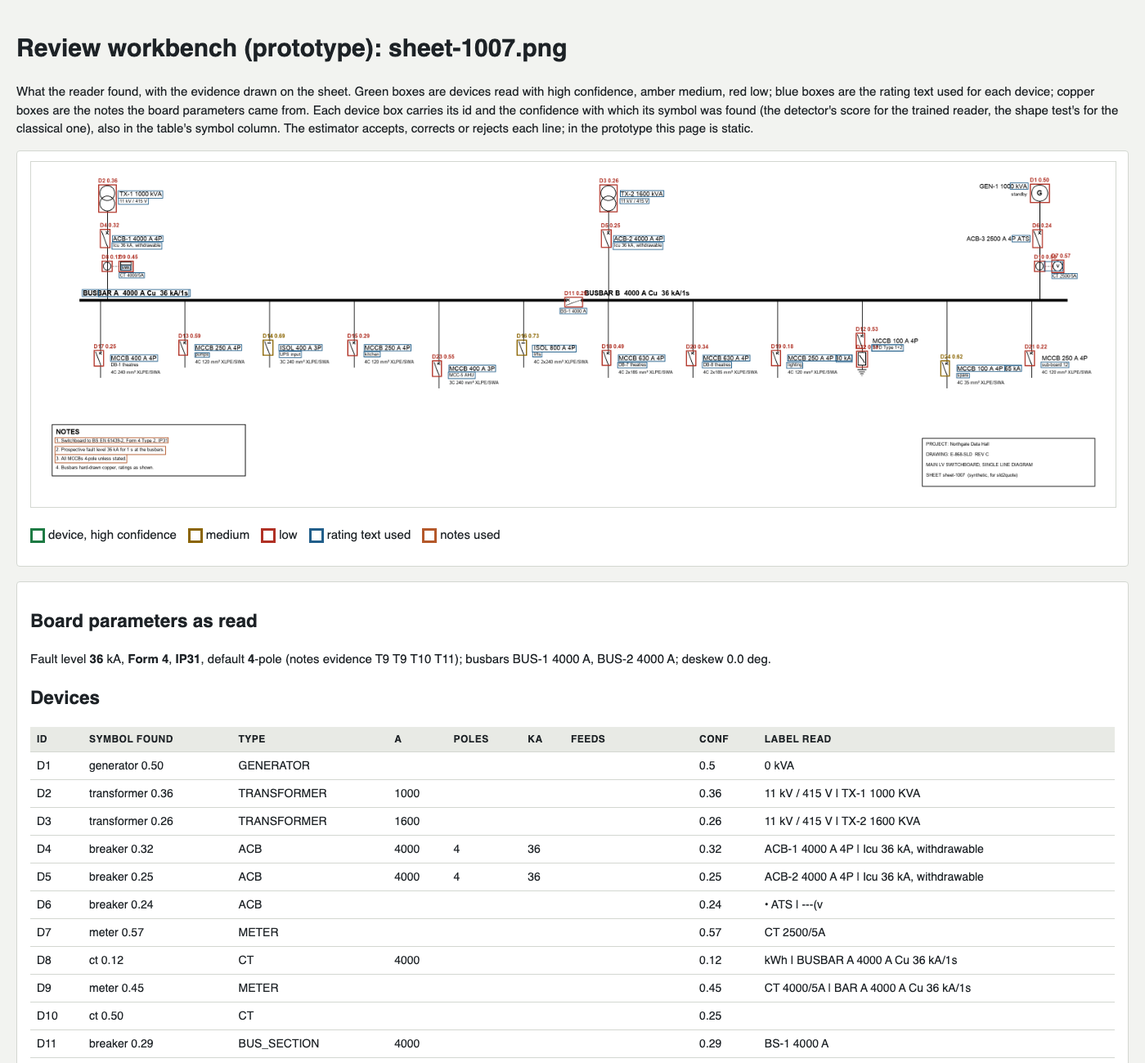
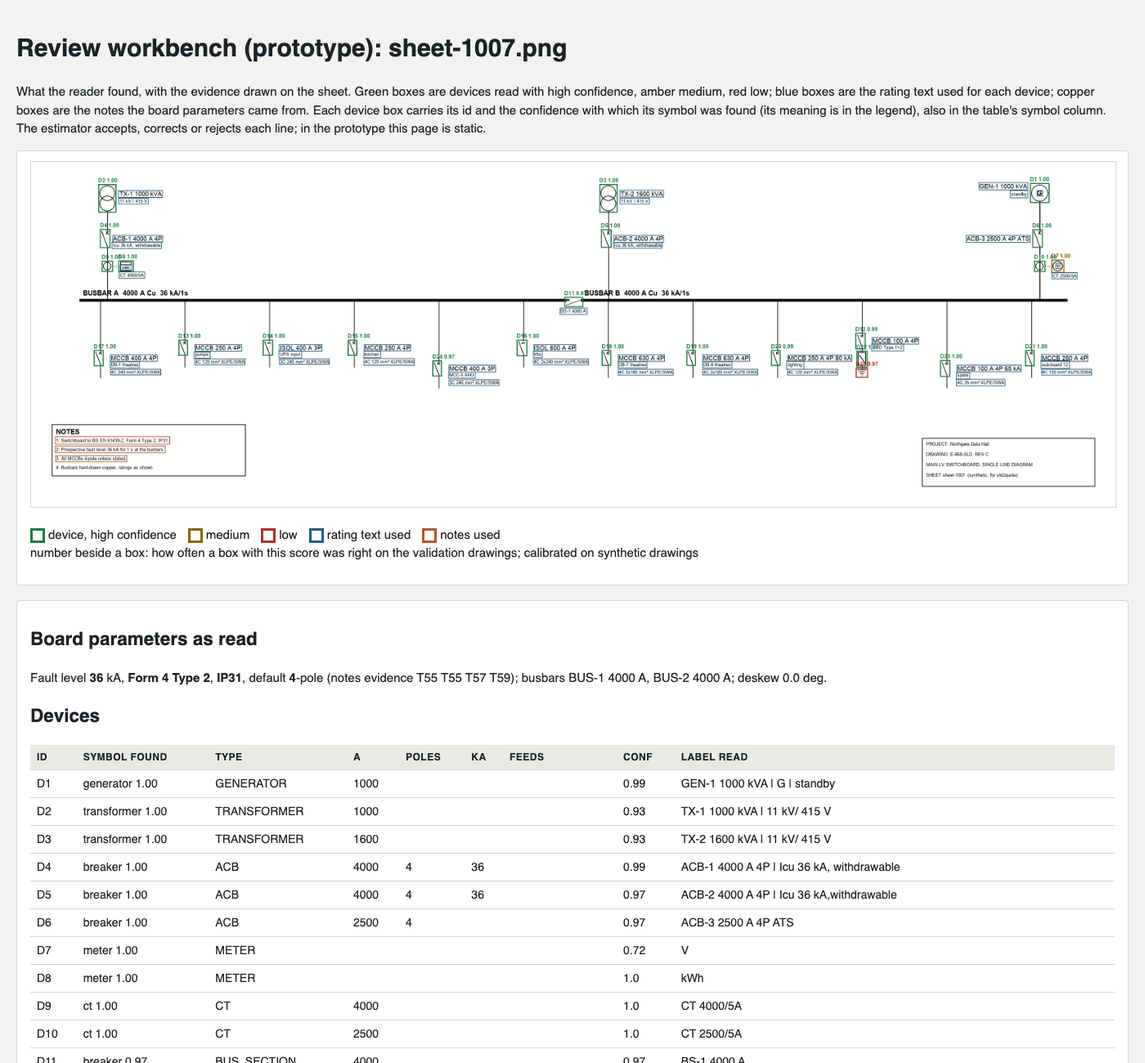
0.3.0: README numbers from the step-6 sections (ratings read right 1.000 test clean, 0.813 unseen clean; price error 0.014 and 0.125; link 1.000), the link-score definition and the honesty note carried over, 'Where it fails' rewritten, the site model named, review screenshot re-shot; CHANGELOG and C

diff --git a/sld2quote/reader.py b/sld2quote/reader.py
@@ -584,7 +584,7 @@ def read_sheet(image_path: str, texts: list[dict] | None = None, finder=classica
 
 
 READERS = ("classical", "trained")
-WEIGHTS = "weights/rtdetr_r18_full"  # the trained reader's detector unless --weights says otherwise
+WEIGHTS = "weights/rtdetr_r18_plain_ema_fix_pass4"  # the trained reader's detector unless --weights says otherwise
 
 
 def add_reader_args(ap):

diff --git a/sld2quote/__init__.py b/sld2quote/__init__.py
@@ -1,2 +1,2 @@
 """sld2quote: a pre-project prototype of the single-line-diagram to quotation pipeline (synthetic data only)."""
-__version__ = "0.2.0"
+__version__ = "0.3.0"

diff --git a/README.md b/README.md
@@ -1,6 +1,6 @@
 # sld2quote
 
-**v0.2.0, 19 October 2026.** A miniature of the system the University of Salford and R&B Switchgear Knowledge Transfer
+**v0.3.0, 19 October 2026.** A miniature of the system the University of Salford and R&B Switchgear Knowledge Transfer
 Partnership (KTP) sets out to build: it reads a low-voltage switchboard single-line diagram (SLD) and its specification,
 builds a bill of materials with the evidence behind every line, prices it, writes a draft quotation for an estimator to
 check, and measures every step against an answer key. It was built as evidence for a job application and is deliberately
@@ -12,9 +12,10 @@ works, with the scorecards; the road map of the real project). It runs on Google
 visit takes about 20 seconds to wake it; a run then takes 16 to 50 seconds depending on the drawing.
 
 ![The review page for a synthetic drawing the detector never saw](docs/review-sheet-1007.png)
-*The review page (`review.html`) for a synthetic drawing the detector never saw (`sheet-1007`, trained reader): each
-device box with the detector's score, the rating text used (blue) and the notes used (copper). The device table continues
-below it, then the bill of materials with the evidence for each line, and the issues raised for the estimator.*
+*The review page (`review.html`) for a synthetic drawing the detector never saw (`sheet-1007`, the site's reader): each
+device box with its calibrated confidence (how often a box with that score was right on the validation drawings), the
+rating text used (blue) and the notes used (copper). The device table continues below it, then the bill of materials with
+the evidence for each line, and the issues raised for the estimator.*
 
 ## What it does
 
@@ -24,14 +25,16 @@ below it, then the bill of materials with the evidence for each line, and the is
    sometimes conflicts with the drawing on purpose (`sld2quote/generate.py`).
 2. **Finds the symbols** with an RT-DETR detector fine-tuned on synthetic drawings, reading the page in overlapping tiles
    and merging them (`reader_v2.py`); the classical shape tests it replaced are kept as the baseline (`reader.py`).
-3. **Reads the text** with Apple Vision on a Mac or RapidOCR anywhere (`ocr.py`), finds the busbars and lines, attaches
-   each label to its device by rules, and reads the notes block: form, IP rating, fault level, poles (`reader.py`).
+3. **Reads the text** with RapidOCR, or Apple Vision on a Mac (`ocr.py`), finds the busbars and lines, and links the
+   labels: symbols on one vertical line form a way, the lines stacked beside or below it form its label block, and each
+   line goes to the device it names (a rating to the breaker, kW to the starter, kVAr to the capacitor, a CT ratio to the
+   CT); then reads the notes block: form, IP rating, fault level, poles (`reader.py`).
 4. **Reads the specification** clause by clause and lists where it conflicts with the drawing, citing the clause
    (`spec.py`).
 5. **Prices** with deterministic rules over the invented catalogue: every line names the symbol, text or clause it rests
    on, and anything doubtful is raised for the estimator, never silently fixed (`rules.py`, `catalogue.json`); then writes
    `quotation.md`, `bom.csv` and `review.html` (`quote.py`).
-6. **Measures** symbols, ratings, notes, conflicts, bill-of-materials lines and price against the answer key
+6. **Measures** symbols, label links, ratings, notes, conflicts, bill-of-materials lines and price against the answer key
    (`evaluate.py`), and the detector and the text readers on their own (`train_detector.py eval`, `evaluate_ocr.py`).
 
 ## Results
@@ -40,40 +43,59 @@ Every result figure in this README is copied by a script from the files the eval
 [`eval/RESULTS.md`](eval/RESULTS.md) (every set, reader, device type and sheet), [`eval/DETECTOR.md`](eval/DETECTOR.md)
 (every training run, per class) and [`eval/OCR.md`](eval/OCR.md) (every engine). Synthetic drawings only.
 
-### Whole drawings: classical against trained reader
+### Whole drawings: classical against trained reader, and the label link before and after step 6
 
-| Measure | Reader | Test, clean (30) | Test, scan-like (30) | Unseen style, clean (60) | Unseen style, scan-like (60) |
-|---|---|---|---|---|---|
-| Symbol precision | classical | 0.238 | 0.240 | 0.428 | 0.251 |
-|  | trained | 0.967 | 0.945 | 0.956 | 0.850 |
-| Symbol recall | classical | 0.059 | 0.079 | 0.133 | 0.100 |
-|  | trained | 0.954 | 0.871 | 0.963 | 0.801 |
-| Price error, mean | classical | 0.833 | 0.751 | 0.727 | 0.624 |
-|  | trained | 0.312 | 0.369 | 0.241 | 0.304 |
+| Measure | Reader | Test, clean (30) | Test, scan-like (30) | Unseen style, clean (60) | Unseen style, scan-like (60) | Baseline, clean (30) | Baseline, scan-like (30) |
+|---|---|---|---|---|---|---|---|
+| Symbol precision | classical, Vision | 0.238 | 0.240 | 0.428 | 0.251 | 0.350 | 0.213 |
+|  | trained, old link | 0.982 | 0.938 | 0.983 | 0.861 | 0.981 | 0.848 |
+|  | trained, step 6 | 0.990 | 0.995 | 0.989 | 1.000 | 0.992 | 0.997 |
+| Symbol recall | classical, Vision | 0.059 | 0.079 | 0.133 | 0.100 | 0.090 | 0.073 |
+|  | trained, old link | 0.973 | 0.924 | 0.979 | 0.839 | 0.972 | 0.825 |
+|  | trained, step 6 | 0.981 | 0.981 | 0.985 | 0.974 | 0.983 | 0.970 |
+| Link precision / recall | trained, old link | 0.738 / 0.612 | 0.741 / 0.637 | 0.743 / 0.653 | 0.719 / 0.664 | 0.750 / 0.625 | 0.720 / 0.646 |
+|  | trained, step 6 | 1.000 / 1.000 | 0.999 / 0.999 | 0.998 / 0.999 | 0.997 / 0.999 | 0.999 / 1.000 | 0.997 / 0.999 |
+| Ratings read right | trained, old link | 0.753 | 0.608 | 0.556 | 0.531 | 0.672 | 0.640 |
+|  | trained, step 6 | 1.000 | 0.995 | 0.813 | 0.840 | 0.897 | 0.911 |
+| Price error, mean | classical, Vision | 0.833 | 0.751 | 0.727 | 0.624 | 0.772 | 0.746 |
+|  | trained, old link | 0.125 | 0.333 | 0.249 | 0.316 | 0.189 | 0.368 |
+|  | trained, step 6 | 0.014 | 0.014 | 0.125 | 0.098 | 0.054 | 0.051 |
 
-Measured by `python3 -m sld2quote.evaluate` on 18 October 2026 on a Mac, with Apple Vision reading the text and the
-detector on 4 CPU threads. *Test* is 30 drawings in the styles the detector trained on, none of which it
-saw in training, each as a clean and a scan-like copy; *unseen style* is 60 drawings in styles held out of
-training (the font Courier New, or labels below the symbols). A symbol counts as found when its device type is right and
-its box overlaps the answer key's by IoU 0.3 or more. Price error is the gap between the quoted total and the total the
-same rules give on the answer key, as a share of that total, so it measures reading, not pricing. Trained reader:
-`weights/rtdetr_r18_full` at score threshold 0.11, chosen on whole validation drawings. The live site reads text with
-RapidOCR, so its scores can differ from these.
+Measured by `python3 -m sld2quote.evaluate` on a Mac. The trained rows are the site's reader, measured on
+19 October 2026: the detector `weights/rtdetr_r18_plain_ema_fix_pass4` (the RESULTS sections name its run,
+`rtdetr_r18_plain_ema_fix`) on 4 CPU threads at score threshold 0.11, chosen on whole validation drawings, with RapidOCR
+reading the text and the close-up pass around each symbol off; *old link* is the same reader before step 6, which
+took the nearest text to the right or below a symbol. The classical rows are the shape-test reader as measured on
+18 October 2026, with Apple Vision and the close-up pass. *Test* is 30 drawings in the styles the detector trained on,
+none of which it saw in training; *unseen style* is 60 drawings in styles held out of training (the font
+Courier New, or labels below the symbols); *baseline* is the 30 drawings of the first measurement, in every style;
+each comes as a clean and a scan-like copy. A symbol counts as found when its device type is right and its box overlaps
+the answer key's by IoU 0.3 or more. Link precision and recall score the symbol-to-label link alone, counting only links
+between a device the answer key matched and a text the reader located, so a wrong link is told apart from a missed symbol
+or a misread text. Price error is the gap between the quoted total and the total the same rules give on the answer key,
+as a share of that total, so it measures reading, not pricing. One caution: the step 6 link and role rules were designed
+by reading the error lists of these same sets, so on them the rules are scored in sample ("unseen" is held out from the
+detector, not from the rule author); the out-of-sample check feeds the answer key's own symbols, texts and busbars to
+the rules on 500 fresh seeds of each font set (60000 to 60499, used for no choice), where the reviewed rules
+make no link or rating error.
 
 ### The detector on its own, per tile
 
 | Set | Tiles | mAP@0.5 | Mean precision | Mean recall |
 |---|---|---|---|---|
-| Test, clean | 348 | 0.939 | 0.956 | 0.906 |
-| Test, scan-like | 348 | 0.840 | 0.971 | 0.795 |
-| Unseen style | 1,140 | 0.922 | 0.932 | 0.880 |
+| Test, clean | 348 | 0.912 | 0.962 | 0.888 |
+| Test, scan-like | 348 | 0.907 | 0.962 | 0.843 |
+| Unseen style | 1,140 | 0.937 | 0.955 | 0.904 |
 
-From the `rtdetr_r18_full` section of `eval/DETECTOR.md` (committed 18 October 2026): RT-DETR r18vd on 640 px tiles with
-duplicate suppression, at the threshold chosen on validation tiles (0.10), mAP@0.5 from pycocotools. A symbol cut
-by a tile edge counts as missed in that tile, although the reader can find it whole in a neighbouring one, so these are a
-floor. Against the project's bar of 0.95 precision and recall for every class on both validation and unseen-style
-tiles, 3 of 14 classes pass (fuse switch, transformer, generator);
-furthest off on unseen-style tiles: capacitor, earth, downstream board, relay.
+From the `rtdetr_r18_plain_ema_fix` section of `eval/DETECTOR.md` (committed 19 October 2026): RT-DETR r18vd with averaged
+weights and the gradient fix, on 640 px tiles with duplicate suppression, at the threshold chosen on validation tiles
+(0.06), mAP@0.5 from pycocotools. These rows are the run's final weights (pass 10, chosen per tile); the
+site uses its pass 4, chosen on whole validation drawings, which scored mAP@0.5 0.933 on validation tiles and
+0.933 on unseen-style validation tiles, against 0.925 and 0.930 for pass 10 (the run's training
+curve). A symbol cut by a tile edge counts as missed in that tile, although the reader can find it whole in a
+neighbouring one, so these are a floor. Against the project's bar of 0.95 precision and recall for every class on both
+validation and unseen-style tiles, 3 of 14 classes pass (fuse switch, transformer, current transformer); furthest off on
+unseen-style tiles: relay, earth, generator, motor.
 
 ![Training tiles with their answer-key boxes](docs/contact-sheet-tiles.png)
 *Training tiles cut from synthetic drawings, with their answer-key boxes (the top of `data/coco/contact_sheet.png`, which
@@ -83,7 +105,7 @@ the export writes for checking by eye).*
 
 | Engine | Sheets | Labels and notes, page pass | Labels, close-up pass | Seconds per standard sheet, page pass |
 |---|---|---|---|---|
-| RapidOCR, English recogniser (Linux, live site) | 60 | 0.960 | 0.914 | 2.51 |
+| RapidOCR, English recogniser (the site's engine) | 60 | 0.960 | 0.914 | 2.51 |
 | Apple Vision (Mac default) | 60 | 0.868 | 0.953 | 0.46 |
 | Tesseract | 60 | 0.868 | 0.820 | 0.59 |
 | docTR | 60 | 0.727 | 0.907 | 4.23 |
@@ -91,40 +113,39 @@ the export writes for checking by eye).*
 
 From `eval/OCR.md`, measured on 18 October 2026 by `python3 -m sld2quote.evaluate_ocr` on the baseline sheets (clean and
 scan-like) against the generator's own text: character accuracy on the rating labels and the notes lines, a string the
-engine misses scoring 0, and wall time on 2 CPU threads (Vision's threads are set by macOS). RapidOCR is the engine on
-Linux and on the live site. Apple Vision is still the Mac default: in the reader's close-up pass around each symbol it
-reads labels better than RapidOCR (fourth column).
+engine misses scoring 0, and wall time on 2 CPU threads (Vision's threads are set by macOS). RapidOCR is the site's
+engine and the default wherever the Vision tool cannot run, with the close-up pass off; Apple Vision is still the Mac
+default, with the close-up pass on, where it reads labels better than RapidOCR (fourth column).
 
 ## Where it fails, and what remains
 
 From the per-type tables in `eval/RESULTS.md` and the causes recorded in [`docs/PROBLEMS.md`](docs/PROBLEMS.md):
 
-- **Labels go to the wrong device.** The trained reader has the rating right on 66.9 to 70.5 percent of the devices it
-  finds. On a probe, most wrong ratings were labels read correctly but attached to the wrong device, and kW and kVAr
-  ratings (contactors, motors, capacitors) are not parsed yet. After the symbols, this link is the next error source
-  (PROBLEMS 13 and 20).
-- **Scans.** Recall falls on scan-like copies, in the detector itself (second table) and after it: the blurred borders of
-  the notes box and title block pass the busbar finder, the wrong band becomes the main busbar, and feeders are typed as
-  incomers (PROBLEMS 14).
-- **Role rules written for one symbol style.** The IEC bus-section symbol sits a few pixels off the busbar, outside the
-  rule's tolerance, so many are typed as incoming breakers (PROBLEMS 14).
-- **Rare and small symbols.** Relays, capacitors, surge arresters and earths have the fewest training examples and miss
-  the bar; per-type results also swing from one training pass to the next, and a wider font set left the rarest, the
-  relay, unlearned (PROBLEMS 10 to 10c).
-- **Ghost parts on blank paper** at low thresholds, now held down by choosing the threshold on whole validation drawings,
+- **A cable drawn through its own label.** On the classic drawings with labels below, a plain feeder's cable runs
+  through the rating line, and the text reader returns readings such as "8b0 A": the link is right and the reading
+  wrong. Most unseen-style drawings have labels below, so on their clean copies ratings read right are 0.813
+  (MCCB 0.568, fuse switch 0.610) against 1.000 on the test set, whose labels sit to the right; that is
+  most of the price error left on the unseen and baseline sets (PROBLEMS 27).
+- **A missed contactor loses its motor's kW.** A motor's kW is read from its starter's line, so a contactor the detector
+  misses leaves its motor unrated too (PROBLEMS 24).
+- **Scans.** The text reader's slips inside numbers on scans ("16OO kVA", "A4P") are repaired where a number starts
+  (PROBLEMS 26), but the notes block still reads worse (notes right 0.854 to 0.942 on scan-like copies against
+  0.933 to 0.983 on clean ones) and small symbols are missed more often (earth recall 0.667 to 0.882 against
+  0.889 to 1.000).
+- **Rare and small symbols.** Relays have the fewest training examples (recall 0.273 to 0.882 over the six columns) and
+  earths are small; per-type results also swing from one training pass to the next, and a wider font set left the
+  relay unlearned (PROBLEMS 10 to 10c).
+- **Ghost parts on blank paper** at low thresholds, held down by choosing the threshold on whole validation drawings,
   never per tile (PROBLEMS 10b).
-- **Speed.** The trained reader takes 9.2 to 11.3 s a drawing on 4 CPU threads, most of it text reading, chiefly the
-  close-up pass around each symbol (PROBLEMS 19).
-- **Training numerics.** Every model so far, this one included, was trained on the Mac GPU through a fault that computed
-  some weight gradients wrongly; the trainer now works around it, but this model is not yet retrained with the fix
-  (PROBLEMS 17a).
+- **Speed.** The site's reader takes 5.2 to 7.6 s a drawing on 4 CPU threads of this Mac: 2.9 to 4.3 s of text
+  reading and 2.1 to 3.1 s of detection (PROBLEMS 19).
 - **Real drawings** use American ANSI/IEEE 315 symbols, which the detector has never seen; they are not labelled or scored
   yet (see below).
 
-Not done in 0.2.0: the full symbol-to-label rule agreed on 17 October (symbols on one vertical line form a way, the way
-owns its label block, each line goes to a device by what it says) with its own precision and recall; the scorecard of
-failures by cause; hand labels and scores for the real drawings; the speed benchmark on the live site's server; a retrain
-with the gradient fix and weight averaging, judged on whole drawings. The plan and every result so far, dated, are in [`HANDOFF.md`](HANDOFF.md) section 7.
+Not done in 0.3.0: the scorecard of failures by cause; hand labels and scores for the real drawings; the wide font set
+through the whole reader (its labels start under the cable, so they are not crossed, but that is not measured end to
+end); and relays on the wide font set (PROBLEMS 10c). The plan and every result so far, dated, are in
+[`HANDOFF.md`](HANDOFF.md) section 7.
 
 ## Run it
 
@@ -134,7 +155,7 @@ CPU index first, as its header says).
 ```sh
 git clone https://github.com/CaptiveON/sld2quote && cd sld2quote
 python3 -m pip install -r site/requirements.txt   # the pipeline, both readers, RapidOCR and the site
-python3 -c "from huggingface_hub import snapshot_download; snapshot_download('itsmoadnan/sld2quote-detector', local_dir='weights/rtdetr_r18_full')"
+python3 -c "from huggingface_hub import snapshot_download; snapshot_download('itsmoadnan/sld2quote-detector', local_dir='weights/rtdetr_r18_plain_ema_fix_pass4')"
 ./run_demo.sh
 ```
 
@@ -142,40 +163,46 @@ python3 -c "from huggingface_hub import snapshot_download; snapshot_download('it
 three synthetic sheets with their scan-like copies into `data/demo`, quotes one with the trained reader (or, with a note,
 the classical one when the weights are missing) and prints where the outputs are.
 
-One sheet:
+One sheet, read as the site reads it:
 
 ```sh
-python3 -m sld2quote.cli run data/demo/sheet-0002-scan.png --reader trained --device cpu
+SLD2QUOTE_OCR=rapidocr python3 -m sld2quote.cli run data/demo/sheet-0002-scan.png --reader trained \
+  --weights weights/rtdetr_r18_plain_ema_fix_pass4 --device cpu
 # writes out/sheet-0002-scan/: quotation.md, bom.csv, bom.json, review.html, extraction.json, spec_check.json
 ```
 
 `--spec` names the specification (by default the `-spec.txt` beside a generated sheet; without one the cross-check is
-skipped), `--out` the output folder, `--weights` the detector, `--device` cpu or mps (default mps when available). Any PNG
-can be read, but the detector knows only the synthetic IEC style.
+skipped), `--out` the output folder, `--weights` the detector (without it the reader takes `weights/rtdetr_r18_full`, the
+0.2.0 model), `--device` cpu or mps (default mps when available), `--crops 0|1` the close-up pass (default on with
+Vision, off with RapidOCR). Any PNG can be read, but the detector knows only the synthetic IEC style.
 
 **Text reader on Linux.** With no Vision tool the reader uses RapidOCR, installed above; its OpenCV needs
 `sudo apt-get install libgl1 libglib2.0-0`, and its English recogniser (9 MB) is fetched once from the Hugging Face hub.
 `SLD2QUOTE_OCR=rapidocr` picks it on a Mac too, `SLD2QUOTE_OCR=vision` the Mac engine.
 
 **The site.** `uvicorn app:app --app-dir site --port 7860` serves it at http://localhost:7860, live runs included
-(`site/app.py`); `site/Dockerfile` builds the server's image for Cloud Run (or a Docker Space).
+(`site/app.py`, which loads `weights/rtdetr_r18_plain_ema_fix_pass4`); `site/Dockerfile` builds the server's image for
+Cloud Run (or a Docker Space).
 
-**Evaluation.** Each run rewrites only its own section of `eval/RESULTS.md`; `OMP_NUM_THREADS=4` gives the thread count
-used above.
+**Evaluation.** Each run writes its own section of `eval/RESULTS.md`, titled by its data, reader, weights and engine;
+`SLD2QUOTE_OCR=rapidocr` and `OMP_NUM_THREADS=4` give the site's engine and the thread count used above.
 
 ```sh
 python3 sld2quote/generate.py --out data/baseline --n 30 --seed 100 --scan                  # 30 drawings, clean and scan-like
 python3 -m sld2quote.evaluate --data data/baseline --out eval                                # classical reader
-python3 -m sld2quote.evaluate --data data/baseline --out eval --reader trained --device cpu  # trained reader
+SLD2QUOTE_OCR=rapidocr python3 -m sld2quote.evaluate --data data/baseline --out eval --reader trained \
+  --weights weights/rtdetr_r18_plain_ema_fix_pass4 --device cpu                              # the site's reader
 
 # the test and unseen-style sets come from the training pool and its export
 python3 sld2quote/generate.py --out data/pool --n 900 --seed 10000 --scan
 python3 -m sld2quote.export_coco --pool data/pool --out data/coco --unseen 60 --val-unseen 20
 python3 -m sld2quote.evaluate --make-sets                     # data/eval/test, unseen, val and val_unseen
-python3 -m sld2quote.evaluate --data data/eval/test --out eval --reader trained --device cpu
-python3 -m sld2quote.evaluate --data data/eval/unseen --out eval --reader trained --device cpu
+for s in test unseen; do
+  SLD2QUOTE_OCR=rapidocr python3 -m sld2quote.evaluate --data data/eval/$s --out eval --reader trained \
+    --weights weights/rtdetr_r18_plain_ema_fix_pass4 --device cpu
+done
 python3 -m pip install pycocotools==2.0.11                    # the detector per tile (eval/DETECTOR.md)
-python3 -m sld2quote.train_detector eval --weights weights/rtdetr_r18_full --data data/coco --split test_unseen --nms-iou 0.5 --device cpu
+python3 -m sld2quote.train_detector eval --weights weights/rtdetr_r18_plain_ema_fix_pass4 --data data/coco --split test_unseen --nms-iou 0.5 --device cpu
 python3 -m sld2quote.evaluate_ocr --data data/baseline --engines vision,rapidocr --crops    # eval/OCR.md
 
 python3 -m pip install pytest && python3 -m pytest -q tests   # tests needing absent weights, hub models or OCR engines skip
@@ -184,19 +211,23 @@ python3 -m pip install pytest && python3 -m pytest -q tests   # tests needing ab
 ## The trained model
 
 The detector is RT-DETR with the r18vd backbone, fine-tuned from `PekingU/rtdetr_r18vd` on tiles cut from synthetic
-drawings, with its operating thresholds stored in its `config.json`. The weights are not kept in git: they are in the
-Hugging Face model repository [itsmoadnan/sld2quote-detector](https://huggingface.co/itsmoadnan/sld2quote-detector) (the
-download line above puts them in `weights/rtdetr_r18_full`, where the reader looks by default) and attached to the GitHub
-release: <release asset URL>.
+drawings, with averaged weights (EMA) and the gradient fix (PROBLEMS 17a): pass 4 of the run `rtdetr_r18_plain_ema_fix`, chosen on whole
+validation drawings, with its drawing threshold and the calibration of its confidence stored in its `config.json`. The
+weights are not kept in git: they are in the Hugging Face model repository
+[itsmoadnan/sld2quote-detector](https://huggingface.co/itsmoadnan/sld2quote-detector) (the download line above puts them
+in `weights/rtdetr_r18_plain_ema_fix_pass4`, where the site looks) and attached to the GitHub release:
+<release asset URL>.
 
-To train it again on a Mac GPU, with the data built as under Evaluation (the first command is the one recorded for this
-model, with a new output folder; the second chooses its threshold on whole validation drawings):
+To train it again on a Mac GPU, with the data built as under Evaluation (the first command is the one recorded for the
+run, with a new output folder, and keeps every pass; the second chooses a pass's threshold and calibration on whole
+validation drawings; the site's model is pass 4 of the recorded run):
 
 ```sh
 PYTORCH_ENABLE_MPS_FALLBACK=1 python3 -m sld2quote.train_detector train --data data/coco --out weights/rtdetr_r18_new \
   --model PekingU/rtdetr_r18vd --epochs 10 --batch 16 --lr 1e-4 --backbone-lr 1e-5 --weight-decay 1e-4 --warmup-steps 300 \
-  --grad-clip 0.1 --patience 3 --min-delta 0.002 --eval-every 1 --nms-iou 0.5 --device mps --seed 0 --time-budget-min 330
-python3 -m sld2quote.select_threshold --weights weights/rtdetr_r18_new --sets data/eval/val,data/eval/val_unseen --device cpu
+  --grad-clip 0.1 --patience 3 --min-delta 0.002 --select f1 --keep-passes --eval-every 1 --nms-iou 0.5 --device mps \
+  --seed 0 --time-budget-min 420 --ema 0.999 --ema-warmup 200
+python3 -m sld2quote.select_threshold --weights weights/rtdetr_r18_new/pass-4 --sets data/eval/val,data/eval/val_unseen --device cpu
 ```
 
 Training on the Mac GPU is seeded but not bit-for-bit repeatable, so a rerun gives a close model, not the same one.

diff --git a/CHANGELOG.md b/CHANGELOG.md
@@ -2,6 +2,28 @@
 
 Synthetic data only; nothing here comes from R&B. Steps are those of the plan in `HANDOFF.md` section 7.
 
+## 0.3.0, 19 October 2026
+
+- **Model switch.** The site's detector is now pass 4 of `rtdetr_r18_plain_ema_fix` (the plain recipe with averaged
+  weights and the gradient fix), chosen on whole validation drawings at threshold 0.11, in
+  `weights/rtdetr_r18_plain_ema_fix_pass4`; it replaces `rtdetr_r18_full`.
+- **Step 6, the label link and the role rules.** Symbols on one vertical line form a way, the lines stacked beside or
+  below it form its label block, and each line goes to the device it names; the main bus is the level with the most
+  busbar length, a bus-section is a breaker the bus passes through, meters are read again, kW, kVAr and CT ratios are
+  parsed, and the text reader's slips inside numbers are repaired. The generator records which device each text was
+  drawn for, and `evaluate.py` scores link precision and recall (PROBLEMS 23 to 27).
+- **Calibrated confidence.** The trained reader reports how often a box with its score was right on the validation
+  drawings (`score_calibration` in the weights' `config.json`), not the raw score (PROBLEMS 22). The close-up text pass
+  depends on the engine (`--crops`: on for Vision, off for RapidOCR).
+- **The site, rebuilt.** One page: an overview with key numbers read from the scorecards, a three-step run (sample,
+  generated drawing or upload) with the stages streamed live, results on a zoomable drawing linked to the device table,
+  and charts in "How it works" built from the evaluation files (`scripts/build_charts.py`, `eval/charts.json`); the
+  samples rebuilt with the site's reader.
+- **Deployment.** Google Cloud Run inside the free tier: billed only during start-up and requests, a daily cap on live
+  runs, the model copied into the image so the service holds no secret, and a second instance so the page answers while
+  a run is in progress (`scripts/deploy_cloudrun.sh`, PROBLEMS 21).
+- **Packaging.** README figures from the step 6 sections of `eval/RESULTS.md` (RapidOCR), version 0.3.0.
+
 ## 0.2.0, 19 October 2026
 
 - **Symbols (Phase 2).** IEC 60617 symbols for the devices an estimator prices, breakers in two drawn styles, simple and
